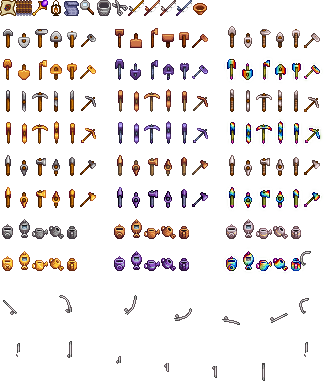
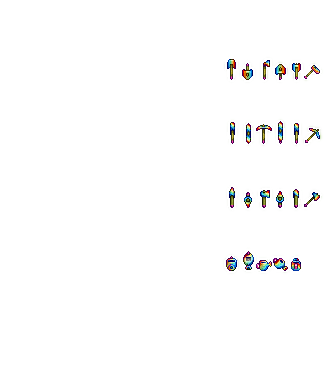
fix non-prismatic sprites overwritten by edits

diff --git a/PrismaticTools/Framework/AssetEditor.cs b/PrismaticTools/Framework/AssetEditor.cs
@@ -48,7 +48,7 @@ namespace PrismaticTools.Framework {
                 });
             } else if (e.NameWithoutLocale.IsEquivalentTo("TileSheets/tools")) {
                 e.Edit(asset => {
-                    asset.AsImage().PatchImage(ModEntry.ToolsTexture, null, null, PatchMode.Overlay);
+                    asset.AsImage().PatchImage(ModEntry.ToolsTexture, patchMode: PatchMode.Overlay);
                 });
             }
         }
